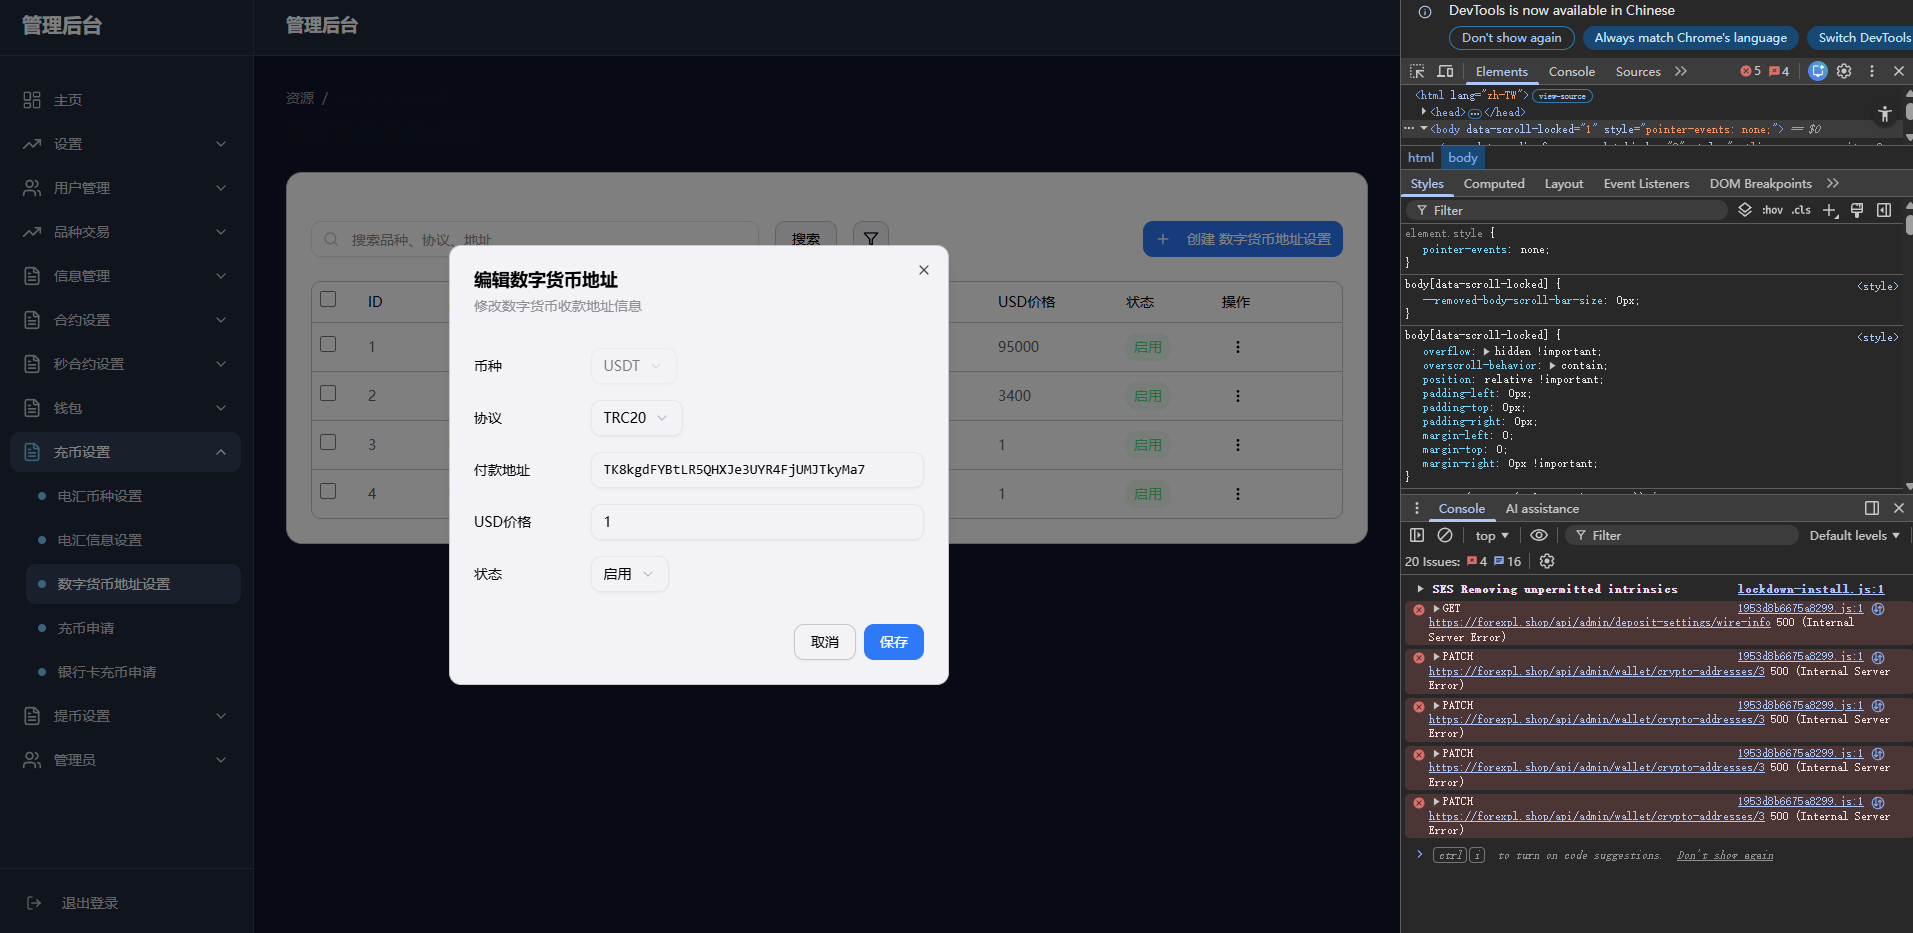
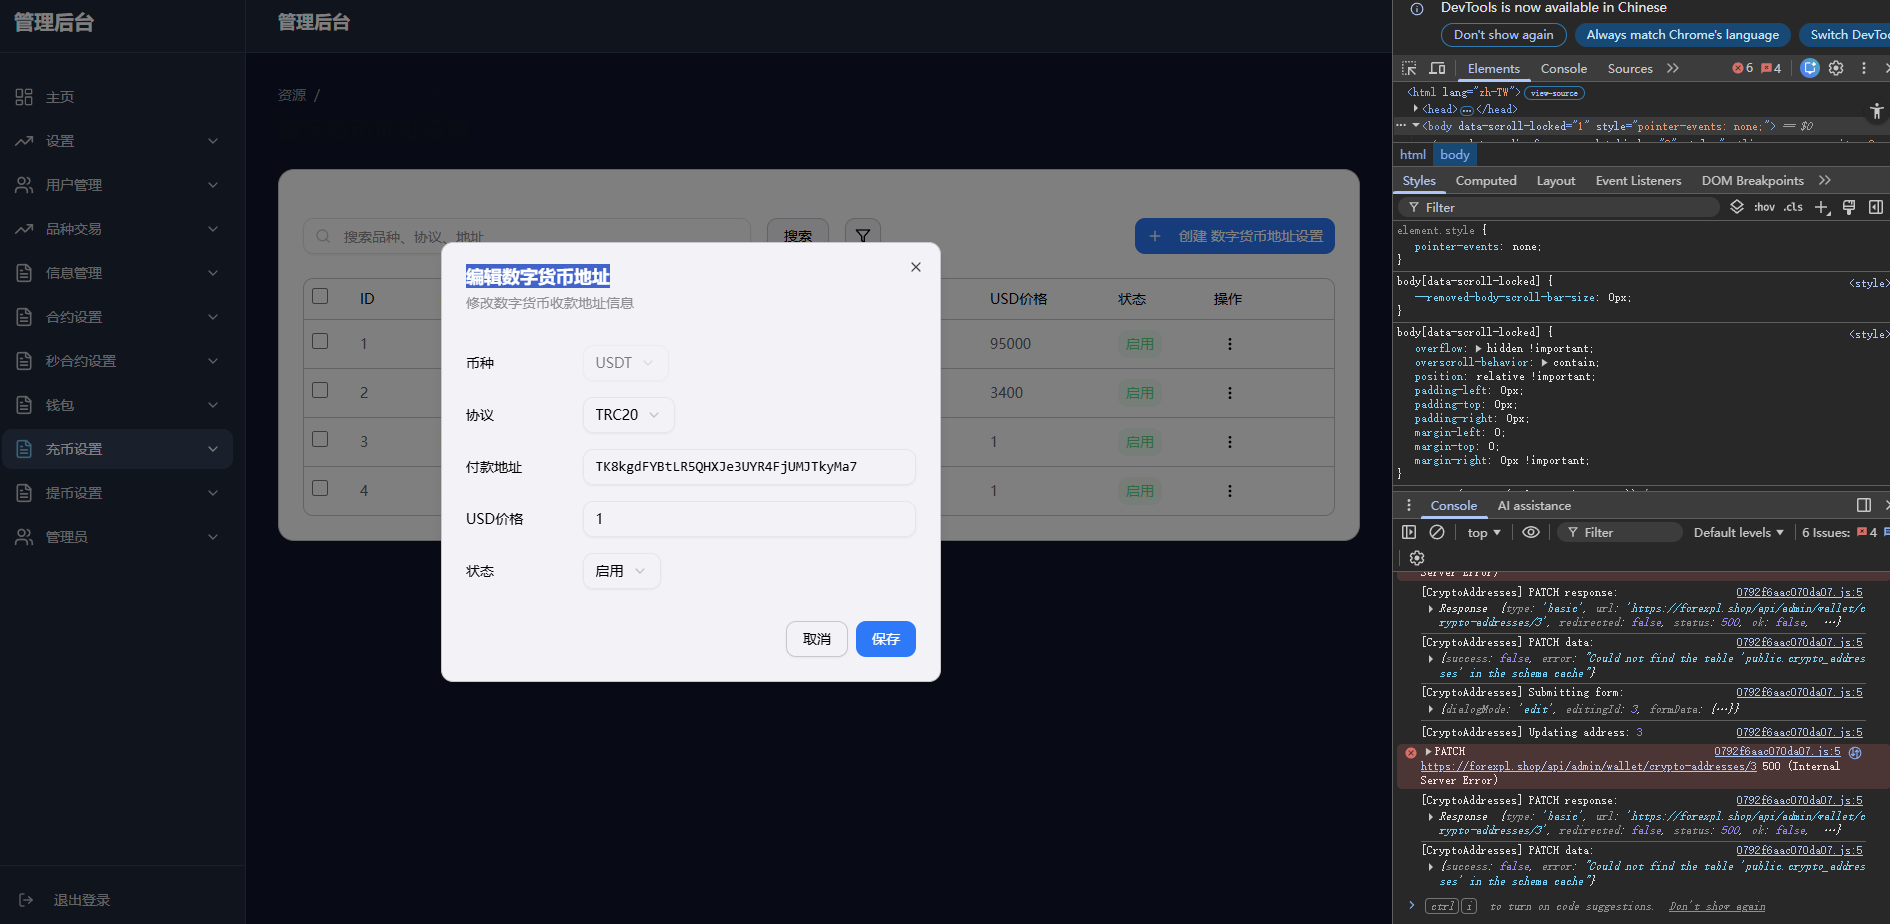
fix: 修复 wallet/crypto-addresses 页面的编辑保存功能

diff --git a/src/app/admin/wallet/crypto-addresses/page.tsx b/src/app/admin/wallet/crypto-addresses/page.tsx
@@ -41,6 +41,7 @@ import {
   ChevronDown,
 } from 'lucide-react';
 import { toast } from 'sonner';
+import adminFetch from '@/lib/admin-fetch';
 
 interface CryptoAddress {
   id: number;
@@ -48,6 +49,7 @@ interface CryptoAddress {
   protocol: string;
   address: string;
   usdPrice: number;
+  status?: string;
 }
 
 const CURRENCIES = ['USDT', 'ETH', 'BTC'] as const;
@@ -86,14 +88,9 @@ export default function CryptoAddressesPage() {
   const fetchAddresses = async () => {
     setLoading(true);
     try {
-      const response = await fetch(
+      const response = await adminFetch(
         `/api/admin/wallet/crypto-addresses?page=${currentPage}&limit=${pageSize}&sort=${sortField}&order=${sortOrder}&search=${searchQuery}`
       );
-      
-      if (!response.ok) {
-        console.error('Failed to fetch crypto addresses:', response.status, response.statusText);
-        return;
-      }
       
       const data = await response.json();
       if (data.success) {
@@ -138,21 +135,16 @@ export default function CryptoAddressesPage() {
     if (!confirm('确定要删除此数字货币地址设置吗？')) return;
 
     try {
-      const response = await fetch(`/api/admin/wallet/crypto-addresses/${addressId}`, {
+      const response = await adminFetch(`/api/admin/wallet/crypto-addresses/${addressId}`, {
         method: 'DELETE',
       });
-      
-      if (!response.ok) {
-        toast.error('网络错误，请稍后重试');
-        return;
-      }
       
       const data = await response.json();
       if (data.success) {
         toast.success('删除成功');
         fetchAddresses();
       } else {
-        toast.error('删除失败');
+        toast.error(data.error || '删除失败');
       }
     } catch (error) {
       console.error('Failed to delete crypto address:', error);
@@ -173,19 +165,15 @@ export default function CryptoAddressesPage() {
 
     setIsSubmitting(true);
     try {
-      const response = await fetch('/api/admin/wallet/crypto-addresses', {
+      const response = await adminFetch('/api/admin/wallet/crypto-addresses', {
         method: 'POST',
         headers: { 'Content-Type': 'application/json' },
         body: JSON.stringify({
           ...formData,
           usdPrice: parseFloat(formData.usdPrice) || 0,
+          status: 'active',
         }),
       });
-
-      if (!response.ok) {
-        toast.error('网络错误，请稍后重试');
-        return;
-      }
 
       const data = await response.json();
       if (data.success) {
@@ -194,7 +182,7 @@ export default function CryptoAddressesPage() {
         resetForm();
         fetchAddresses();
       } else {
-        toast.error(data.message || '创建失败');
+        toast.error(data.error || '创建失败');
       }
     } catch (error) {
       console.error('Failed to create crypto address:', error);
@@ -217,9 +205,10 @@ export default function CryptoAddressesPage() {
       return;
     }
 
+    console.log('[CryptoAddresses] Editing address:', { id: selectedAddress.id, formData });
     setIsSubmitting(true);
     try {
-      const response = await fetch(`/api/admin/wallet/crypto-addresses/${selectedAddress.id}`, {
+      const response = await adminFetch(`/api/admin/wallet/crypto-addresses/${selectedAddress.id}`, {
         method: 'PATCH',
         headers: { 'Content-Type': 'application/json' },
         body: JSON.stringify({
@@ -228,12 +217,10 @@ export default function CryptoAddressesPage() {
         }),
       });
 
-      if (!response.ok) {
-        toast.error('网络错误，请稍后重试');
-        return;
-      }
-
+      console.log('[CryptoAddresses] Edit response:', response);
       const data = await response.json();
+      console.log('[CryptoAddresses] Edit data:', data);
+      
       if (data.success) {
         toast.success('更新成功');
         setIsEditDialogOpen(false);
@@ -241,7 +228,7 @@ export default function CryptoAddressesPage() {
         resetForm();
         fetchAddresses();
       } else {
-        toast.error(data.message || '更新失败');
+        toast.error(data.error || '更新失败');
       }
     } catch (error) {
       console.error('Failed to update crypto address:', error);
